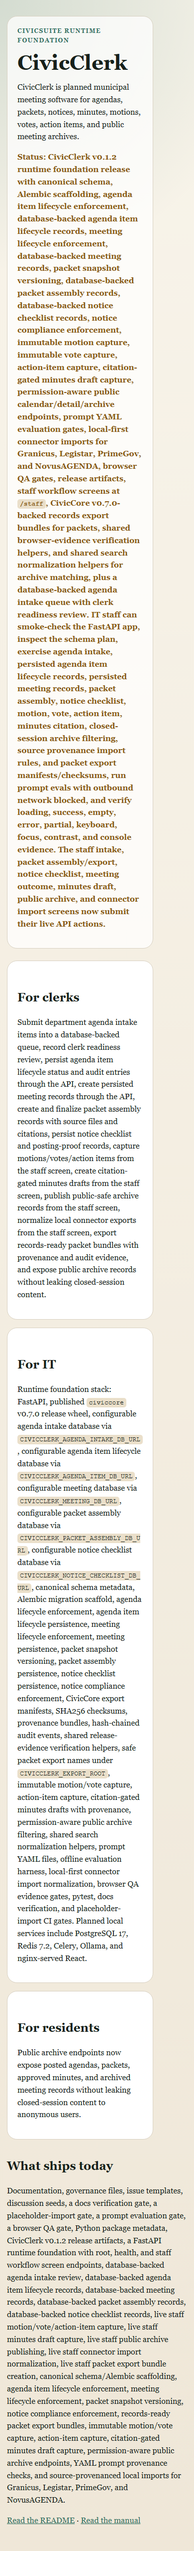
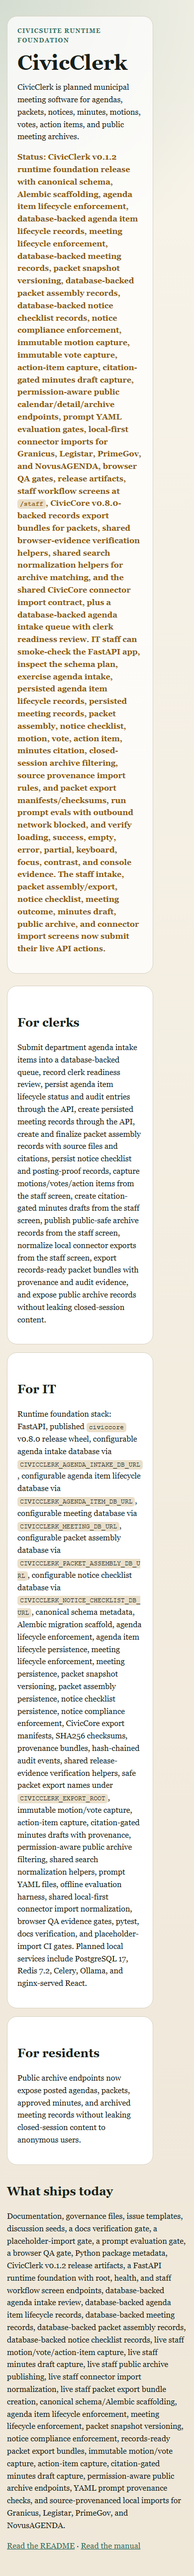
feat: consume civiccore connector import helpers

Changed region(s): [[0.0308, 0.0, 0.9538, 0.9947]]

diff --git a/docs/index.html b/docs/index.html
@@ -51,7 +51,7 @@
       <div class="eyebrow">CivicSuite runtime foundation</div>
       <h1>CivicClerk</h1>
       <p>CivicClerk is planned municipal meeting software for agendas, packets, notices, minutes, motions, votes, action items, and public meeting archives.</p>
-      <p class="status">Status: CivicClerk v0.1.2 runtime foundation release with canonical schema, Alembic scaffolding, agenda item lifecycle enforcement, database-backed agenda item lifecycle records, meeting lifecycle enforcement, database-backed meeting records, packet snapshot versioning, database-backed packet assembly records, database-backed notice checklist records, notice compliance enforcement, immutable motion capture, immutable vote capture, action-item capture, citation-gated minutes draft capture, permission-aware public calendar/detail/archive endpoints, prompt YAML evaluation gates, local-first connector imports for Granicus, Legistar, PrimeGov, and NovusAGENDA, browser QA gates, release artifacts, staff workflow screens at <code>/staff</code>, CivicCore v0.7.0-backed records export bundles for packets, shared browser-evidence verification helpers, and shared search normalization helpers for archive matching, plus a database-backed agenda intake queue with clerk readiness review. IT staff can smoke-check the FastAPI app, inspect the schema plan, exercise agenda intake, persisted agenda item lifecycle records, persisted meeting records, packet assembly, notice checklist, motion, vote, action item, minutes citation, closed-session archive filtering, source provenance import rules, and packet export manifests/checksums, run prompt evals with outbound network blocked, and verify loading, success, empty, error, partial, keyboard, focus, contrast, and console evidence. The staff intake, packet assembly/export, notice checklist, meeting outcome, minutes draft, public archive, and connector import screens now submit their live API actions.</p>
+      <p class="status">Status: CivicClerk v0.1.2 runtime foundation release with canonical schema, Alembic scaffolding, agenda item lifecycle enforcement, database-backed agenda item lifecycle records, meeting lifecycle enforcement, database-backed meeting records, packet snapshot versioning, database-backed packet assembly records, database-backed notice checklist records, notice compliance enforcement, immutable motion capture, immutable vote capture, action-item capture, citation-gated minutes draft capture, permission-aware public calendar/detail/archive endpoints, prompt YAML evaluation gates, local-first connector imports for Granicus, Legistar, PrimeGov, and NovusAGENDA, browser QA gates, release artifacts, staff workflow screens at <code>/staff</code>, CivicCore v0.8.0-backed records export bundles for packets, shared browser-evidence verification helpers, shared search normalization helpers for archive matching, and the shared CivicCore connector import contract, plus a database-backed agenda intake queue with clerk readiness review. IT staff can smoke-check the FastAPI app, inspect the schema plan, exercise agenda intake, persisted agenda item lifecycle records, persisted meeting records, packet assembly, notice checklist, motion, vote, action item, minutes citation, closed-session archive filtering, source provenance import rules, and packet export manifests/checksums, run prompt evals with outbound network blocked, and verify loading, success, empty, error, partial, keyboard, focus, contrast, and console evidence. The staff intake, packet assembly/export, notice checklist, meeting outcome, minutes draft, public archive, and connector import screens now submit their live API actions.</p>
     </section>
 
     <section class="grid" aria-label="Product overview">
@@ -61,7 +61,7 @@
       </article>
       <article class="card">
         <h2>For IT</h2>
-      <p>Runtime foundation stack: FastAPI, published <code>civiccore</code> v0.7.0 release wheel, configurable agenda intake database via <code>CIVICCLERK_AGENDA_INTAKE_DB_URL</code>, configurable agenda item lifecycle database via <code>CIVICCLERK_AGENDA_ITEM_DB_URL</code>, configurable meeting database via <code>CIVICCLERK_MEETING_DB_URL</code>, configurable packet assembly database via <code>CIVICCLERK_PACKET_ASSEMBLY_DB_URL</code>, configurable notice checklist database via <code>CIVICCLERK_NOTICE_CHECKLIST_DB_URL</code>, canonical schema metadata, Alembic migration scaffold, agenda lifecycle enforcement, agenda item lifecycle persistence, meeting lifecycle enforcement, meeting persistence, packet snapshot versioning, packet assembly persistence, notice checklist persistence, notice compliance enforcement, CivicCore export manifests, SHA256 checksums, provenance bundles, hash-chained audit events, shared release-evidence verification helpers, safe packet export names under <code>CIVICCLERK_EXPORT_ROOT</code>, immutable motion/vote capture, action-item capture, citation-gated minutes drafts with provenance, permission-aware public archive filtering, shared search normalization helpers, prompt YAML files, offline evaluation harness, local-first connector import normalization, browser QA evidence gates, pytest, docs verification, and placeholder-import CI gates. Planned local services include PostgreSQL 17, Redis 7.2, Celery, Ollama, and nginx-served React.</p>
+      <p>Runtime foundation stack: FastAPI, published <code>civiccore</code> v0.8.0 release wheel, configurable agenda intake database via <code>CIVICCLERK_AGENDA_INTAKE_DB_URL</code>, configurable agenda item lifecycle database via <code>CIVICCLERK_AGENDA_ITEM_DB_URL</code>, configurable meeting database via <code>CIVICCLERK_MEETING_DB_URL</code>, configurable packet assembly database via <code>CIVICCLERK_PACKET_ASSEMBLY_DB_URL</code>, configurable notice checklist database via <code>CIVICCLERK_NOTICE_CHECKLIST_DB_URL</code>, canonical schema metadata, Alembic migration scaffold, agenda lifecycle enforcement, agenda item lifecycle persistence, meeting lifecycle enforcement, meeting persistence, packet snapshot versioning, packet assembly persistence, notice checklist persistence, notice compliance enforcement, CivicCore export manifests, SHA256 checksums, provenance bundles, hash-chained audit events, shared release-evidence verification helpers, safe packet export names under <code>CIVICCLERK_EXPORT_ROOT</code>, immutable motion/vote capture, action-item capture, citation-gated minutes drafts with provenance, permission-aware public archive filtering, shared search normalization helpers, prompt YAML files, offline evaluation harness, shared local-first connector import normalization, browser QA evidence gates, pytest, docs verification, and placeholder-import CI gates. Planned local services include PostgreSQL 17, Redis 7.2, Celery, Ollama, and nginx-served React.</p>
       </article>
       <article class="card">
         <h2>For residents</h2>

diff --git a/civicclerk/connectors.py b/civicclerk/connectors.py
@@ -1,202 +1,12 @@
-"""Local-first connector import normalization for agenda platforms."""
+"""CivicClerk re-exports shared local-first connector import helpers."""
 
-from __future__ import annotations
-
-from dataclasses import dataclass
-from typing import Any
-
-
-SUPPORTED_CONNECTORS = ("granicus", "legistar", "novusagenda", "primegov")
-
-
-@dataclass(frozen=True)
-class ConnectorImportError(ValueError):
-    message: str
-    fix: str
-
-    def public_dict(self) -> dict[str, str]:
-        return {
-            "message": self.message,
-            "fix": self.fix,
-        }
-
-
-@dataclass(frozen=True)
-class ImportedAgendaItem:
-    external_item_id: str
-    title: str
-    department: str | None
-    connector: str
-
-    def public_dict(self) -> dict[str, str | None | dict[str, str]]:
-        return {
-            "external_item_id": self.external_item_id,
-            "title": self.title,
-            "department": self.department,
-            "source_provenance": {
-                "connector": self.connector,
-                "imported_from": "local_payload",
-                "external_item_id": self.external_item_id,
-            },
-        }
-
-
-@dataclass(frozen=True)
-class ImportedMeeting:
-    connector: str
-    external_meeting_id: str
-    title: str
-    scheduled_start: str
-    agenda_items: tuple[ImportedAgendaItem, ...]
-
-    def public_dict(self) -> dict[str, str | list[dict] | dict[str, str]]:
-        return {
-            "connector": self.connector,
-            "external_meeting_id": self.external_meeting_id,
-            "title": self.title,
-            "scheduled_start": self.scheduled_start,
-            "source_provenance": {
-                "connector": self.connector,
-                "imported_from": "local_payload",
-                "external_meeting_id": self.external_meeting_id,
-            },
-            "agenda_items": [item.public_dict() for item in self.agenda_items],
-        }
-
-
-def import_meeting_payload(
-    *,
-    connector_name: str,
-    payload: dict[str, Any],
-) -> ImportedMeeting:
-    """Normalize one local export payload from a supported agenda platform."""
-    connector = connector_name.strip().lower()
-    if connector not in SUPPORTED_CONNECTORS:
-        raise ConnectorImportError(
-            message=f"Unsupported connector '{connector_name}'.",
-            fix="Use one of: granicus, legistar, novusagenda, primegov.",
-        )
-    return _CONNECTOR_IMPORTERS[connector](payload)
-
-
-def _require(
-    payload: dict[str, Any],
-    *,
-    connector_label: str,
-    field: str,
-) -> Any:
-    value = payload.get(field)
-    if value in (None, ""):
-        raise ConnectorImportError(
-            message=f"{connector_label} meeting payload is missing required field {field}.",
-            fix=f"Export the meeting again with {field} included, then retry the local import.",
-        )
-    return value
-
-
-def _items_from(
-    raw_items: Any,
-    *,
-    connector: str,
-    id_field: str,
-    title_field: str,
-    department_field: str,
-) -> tuple[ImportedAgendaItem, ...]:
-    if not isinstance(raw_items, list):
-        raw_items = []
-    items: list[ImportedAgendaItem] = []
-    for index, raw_item in enumerate(raw_items, start=1):
-        if not isinstance(raw_item, dict):
-            continue
-        external_item_id = str(raw_item.get(id_field) or f"{connector}-item-{index}")
-        title = str(raw_item.get(title_field) or "Untitled agenda item")
-        department = raw_item.get(department_field)
-        items.append(
-            ImportedAgendaItem(
-                external_item_id=external_item_id,
-                title=title,
-                department=str(department) if department not in (None, "") else None,
-                connector=connector,
-            )
-        )
-    return tuple(items)
-
-
-def _import_granicus(payload: dict[str, Any]) -> ImportedMeeting:
-    connector = "granicus"
-    return ImportedMeeting(
-        connector=connector,
-        external_meeting_id=str(_require(payload, connector_label="Granicus", field="id")),
-        title=str(_require(payload, connector_label="Granicus", field="name")),
-        scheduled_start=str(_require(payload, connector_label="Granicus", field="start")),
-        agenda_items=_items_from(
-            payload.get("agenda"),
-            connector=connector,
-            id_field="id",
-            title_field="title",
-            department_field="department",
-        ),
-    )
-
-
-def _import_legistar(payload: dict[str, Any]) -> ImportedMeeting:
-    connector = "legistar"
-    return ImportedMeeting(
-        connector=connector,
-        external_meeting_id=str(_require(payload, connector_label="Legistar", field="MeetingId")),
-        title=str(_require(payload, connector_label="Legistar", field="MeetingName")),
-        scheduled_start=str(_require(payload, connector_label="Legistar", field="MeetingDate")),
-        agenda_items=_items_from(
-            payload.get("AgendaItems"),
-            connector=connector,
-            id_field="FileNumber",
-            title_field="Title",
-            department_field="DepartmentName",
-        ),
-    )
-
-
-def _import_primegov(payload: dict[str, Any]) -> ImportedMeeting:
-    connector = "primegov"
-    return ImportedMeeting(
-        connector=connector,
-        external_meeting_id=str(_require(payload, connector_label="PrimeGov", field="meeting_id")),
-        title=str(_require(payload, connector_label="PrimeGov", field="title")),
-        scheduled_start=str(_require(payload, connector_label="PrimeGov", field="scheduled_start")),
-        agenda_items=_items_from(
-            payload.get("items"),
-            connector=connector,
-            id_field="item_id",
-            title_field="subject",
-            department_field="owner",
-        ),
-    )
-
-
-def _import_novusagenda(payload: dict[str, Any]) -> ImportedMeeting:
-    connector = "novusagenda"
-    return ImportedMeeting(
-        connector=connector,
-        external_meeting_id=str(_require(payload, connector_label="NovusAGENDA", field="MeetingGuid")),
-        title=str(_require(payload, connector_label="NovusAGENDA", field="MeetingTitle")),
-        scheduled_start=str(_require(payload, connector_label="NovusAGENDA", field="MeetingDateTime")),
-        agenda_items=_items_from(
-            payload.get("Agenda"),
-            connector=connector,
-            id_field="Guid",
-            title_field="Caption",
-            department_field="Dept",
-        ),
-    )
-
-
-_CONNECTOR_IMPORTERS = {
-    "granicus": _import_granicus,
-    "legistar": _import_legistar,
-    "novusagenda": _import_novusagenda,
-    "primegov": _import_primegov,
-}
-
+from civiccore.connectors import (
+    ConnectorImportError,
+    ImportedAgendaItem,
+    ImportedMeeting,
+    SUPPORTED_CONNECTORS,
+    import_meeting_payload,
+)
 
 __all__ = [
     "ConnectorImportError",

diff --git a/tests/test_milestone_1_runtime_foundation.py b/tests/test_milestone_1_runtime_foundation.py
@@ -38,16 +38,16 @@ def test_pyproject_declares_runtime_package_and_version() -> None:
     assert "CivicClerk" in data["project"]["description"]
 
 
-def test_pyproject_targets_published_civiccore_v070_release_wheel() -> None:
+def test_pyproject_targets_published_civiccore_v080_release_wheel() -> None:
     data = load_pyproject()
     dependencies = data["project"]["dependencies"]
 
     assert (
-        "civiccore @ https://github.com/CivicSuite/civiccore/releases/download/v0.7.0/"
-        "civiccore-0.7.0-py3-none-any.whl"
+        "civiccore @ https://github.com/CivicSuite/civiccore/releases/download/v0.8.0/"
+        "civiccore-0.8.0-py3-none-any.whl"
     ) in dependencies
     assert not any(
-        "civiccore>=" in dep or "civiccore~=" in dep or dep == "civiccore==0.7.0"
+        "civiccore>=" in dep or "civiccore~=" in dep or dep == "civiccore==0.8.0"
         for dep in dependencies
     )
 
@@ -132,7 +132,7 @@ async def test_health_endpoint_is_actionable_for_it_staff() -> None:
         "status": "ok",
         "service": "civicclerk",
         "version": "0.1.2",
-        "civiccore": "0.7.0",
+        "civiccore": "0.8.0",
     }
 
 

diff --git a/civicclerk/main.py b/civicclerk/main.py
@@ -217,7 +217,7 @@ async def root() -> dict[str, str]:
             "minutes draft capture plus permission-aware public calendar and archive endpoints; "
             "prompt YAML and offline evaluation gates protect policy-bearing prompt changes; "
             "local-first Granicus, Legistar, PrimeGov, and NovusAGENDA imports now normalize "
-            "source provenance; CivicCore v0.7.0 packet export bundles now include manifests, "
+            f"source provenance; CivicCore v{CIVICCORE_VERSION} packet export bundles now include manifests, "
             "checksums, provenance, and hash-chained audit evidence; accessibility and browser QA "
             "gates now verify loading, success, empty, error, partial, keyboard, focus, contrast, "
             "and console evidence; the first database-backed agenda intake queue now supports "

diff --git a/scripts/check-civiccore-placeholder-imports.py b/scripts/check-civiccore-placeholder-imports.py
@@ -1,5 +1,5 @@
 #!/usr/bin/env python3
-"""Fail if CivicClerk source imports CivicCore v0.7.0 placeholder packages."""
+"""Fail if CivicClerk source imports CivicCore v0.8.0 placeholder packages."""
 
 from __future__ import annotations
 
@@ -59,7 +59,7 @@ def main() -> int:
         for name in PLACEHOLDERS:
             if any(pattern.search(text) for pattern in patterns_for(name)):
                 failures.append(
-                    f"{path}: civiccore.{name} is a placeholder package in v0.7.0. "
+                    f"{path}: civiccore.{name} is a placeholder package in v0.8.0. "
                     "See AGENTS.md section 3.1."
                 )
 

diff --git a/tests/test_milestone_12_release.py b/tests/test_milestone_12_release.py
@@ -100,6 +100,6 @@ def test_release_workflow_and_docs_reference_v012_release() -> None:
     assert "contents: write" in workflow
     assert "gh release create" in workflow
     assert "dist/*" in workflow
-    assert "civiccore/releases/download/v0.7.0/civiccore-0.7.0-py3-none-any.whl" in workflow
+    assert "civiccore/releases/download/v0.8.0/civiccore-0.8.0-py3-none-any.whl" in workflow
     assert "civicclerk v0.1.2" in docs
-    assert "published `civiccore` v0.7.0 release wheel" in docs
+    assert "published `civiccore` v0.8.0 release wheel" in docs

diff --git a/civicclerk/packet_notice.py b/civicclerk/packet_notice.py
@@ -121,7 +121,7 @@ class PacketStore:
     """Packet version and export-bundle store.
 
     The store is still process-local in this slice, but export bundles are
-    written to disk with CivicCore v0.7.0 manifests, checksums, provenance, and
+    written to disk with CivicCore v0.8.0 manifests, checksums, provenance, and
     hash-chained audit events so they can be validated without the server.
     """
 

diff --git a/README.md b/README.md
@@ -5,7 +5,7 @@
 Status: CivicClerk v0.1.2 runtime foundation release  
 Current version: `0.1.2`  
 Repository: <https://github.com/CivicSuite/civicclerk>  
-Depends on: published `civiccore` v0.7.0 release wheel
+Depends on: published `civiccore` v0.8.0 release wheel
 
 ## What CivicClerk will do
 
@@ -24,7 +24,7 @@ AI may draft or extract. Humans approve every consequential action.
 
 ## What exists today
 
-CivicClerk v0.1.2 ships the runtime and schema foundation plus database-backed agenda item lifecycle records, meeting lifecycle, packet snapshot, notice compliance, immutable motion capture, immutable vote capture, action-item capture, citation-gated minutes draft capture, permission-aware public calendar/detail/archive endpoints, a prompt YAML library with an offline evaluation harness, local-first connector imports for Granicus, Legistar, PrimeGov, and NovusAGENDA, accessibility/browser QA gates, CivicCore v0.7.0-backed records export bundles, database-backed agenda intake readiness, database-backed packet assembly records, database-backed notice checklist/posting-proof records, database-backed meeting records, and first staff workflow screens for intake, packet assembly/export, notice checklist, meeting outcome, minutes draft, public archive, and connector import work. The staff screens now submit agenda intake, record readiness review, create/finalize packet assembly records, create records-ready packet export bundles, persist notice checklist records, attach posting proof, capture motions/votes/action items, create citation-gated minutes drafts, publish public-safe archive records, and normalize local connector exports through the live API.
+CivicClerk v0.1.2 ships the runtime and schema foundation plus database-backed agenda item lifecycle records, meeting lifecycle, packet snapshot, notice compliance, immutable motion capture, immutable vote capture, action-item capture, citation-gated minutes draft capture, permission-aware public calendar/detail/archive endpoints, a prompt YAML library with an offline evaluation harness, local-first connector imports for Granicus, Legistar, PrimeGov, and NovusAGENDA, accessibility/browser QA gates, CivicCore v0.8.0-backed records export bundles, database-backed agenda intake readiness, database-backed packet assembly records, database-backed notice checklist/posting-proof records, database-backed meeting records, and first staff workflow screens for intake, packet assembly/export, notice checklist, meeting outcome, minutes draft, public archive, and connector import work. The staff screens now submit agenda intake, record readiness review, create/finalize packet assembly records, create records-ready packet export bundles, persist notice checklist records, attach posting proof, capture motions/votes/action items, create citation-gated minutes drafts, publish public-safe archive records, and normalize local connector exports through the shared CivicCore connector import contract.
 
 Shipped in this foundation:
 
@@ -34,7 +34,7 @@ Shipped in this foundation:
 - contributing, support, security, code of conduct, issue templates, and PR template
 - discussion seed posts
 - docs verification script and CI workflow
-- Python package metadata with the published `civiccore` v0.7.0 release wheel
+- Python package metadata with the published `civiccore` v0.8.0 release wheel
 - FastAPI application import path at `civicclerk.main:app`
 - root endpoint that explains the current product state
 - `/health` endpoint for IT staff
@@ -91,7 +91,7 @@ Shipped in this foundation:
 - prompt-version provenance enforcement for minutes drafts
 - local-first Granicus, Legistar, PrimeGov, and NovusAGENDA meeting imports
 - source provenance on imported meetings and agenda items
-- records-ready packet export bundles with CivicCore v0.7.0 manifests, SHA256 checksums, provenance, and hash-chained audit events
+- records-ready packet export bundles with CivicCore v0.8.0 manifests, SHA256 checksums, provenance, and hash-chained audit events
 - closed-session/restricted source guardrails for public packet export bundles
 - safe API export-path handling through `bundle_name` under `CIVICCLERK_EXPORT_ROOT`
 - browser QA gate covering loading, success, empty, error, and partial states
@@ -130,7 +130,7 @@ CivicClerk follows the CivicSuite pattern:
 - Ollama / Gemma 4 through `civiccore.llm`, selected by `CIVICCORE_LLM_PROVIDER=ollama`
 - local data ownership, no runtime telemetry, no cloud inference
 
-The foundation is intentionally thin. Canonical schema, Alembic scaffolding, agenda item lifecycle enforcement, agenda item lifecycle persistence, meeting lifecycle enforcement, meeting records, packet snapshot versioning, packet assembly records, notice checklist records, notice compliance enforcement, immutable motion capture, immutable vote capture, action-item capture, citation-gated minutes draft capture, permission-aware public archive endpoints, prompt YAML/evaluation gates, local-first connector import normalization, browser QA gates, CivicClerk v0.1.2 release artifacts, and CivicCore v0.7.0 packet export plus browser-evidence verification primitives are present. Minutes drafts require sentence-level citations, YAML prompt-version provenance, and human approval before acceptance, and they are never auto-adopted or auto-posted. Anonymous public archive endpoints do not reveal closed-session content in response bodies, counts, suggestions, or error messages. Connector imports record source provenance and do not require outbound network calls in the default local profile. Public packet exports block closed-session/restricted sources and include manifest, checksum, provenance, and audit evidence. Agenda item records now persist lifecycle status and audit entries when `CIVICCLERK_AGENDA_ITEM_DB_URL` is configured. Meeting records now persist scheduled starts, normalized meeting type, lifecycle status, and audit entries when `CIVICCLERK_MEETING_DB_URL` is configured. Packet assembly records now persist source references, citations, linked packet snapshot ids, and durable audit hashes. Notice checklist records persist compliance outcomes, warnings, posting proof, and durable audit hashes. Browser QA now checks loading, success, empty, error, and partial states plus keyboard, focus, contrast, and console evidence, and release screenshots are bound to the current docs page through shared CivicCore verification helpers. CivicClerk v0.1.2 now pairs with the published `civiccore` v0.7.0 release wheel.
+The foundation is intentionally thin. Canonical schema, Alembic scaffolding, agenda item lifecycle enforcement, agenda item lifecycle persistence, meeting lifecycle enforcement, meeting records, packet snapshot versioning, packet assembly records, notice checklist records, notice compliance enforcement, immutable motion capture, immutable vote capture, action-item capture, citation-gated minutes draft capture, permission-aware public archive endpoints, prompt YAML/evaluation gates, local-first connector import normalization, browser QA gates, CivicClerk v0.1.2 release artifacts, and CivicCore v0.8.0 packet export plus browser-evidence verification primitives are present. Minutes drafts require sentence-level citations, YAML prompt-version provenance, and human approval before acceptance, and they are never auto-adopted or auto-posted. Anonymous public archive endpoints do not reveal closed-session content in response bodies, counts, suggestions, or error messages. Connector imports record source provenance and do not require outbound network calls in the default local profile. Public packet exports block closed-session/restricted sources and include manifest, checksum, provenance, and audit evidence. Agenda item records now persist lifecycle status and audit entries when `CIVICCLERK_AGENDA_ITEM_DB_URL` is configured. Meeting records now persist scheduled starts, normalized meeting type, lifecycle status, and audit entries when `CIVICCLERK_MEETING_DB_URL` is configured. Packet assembly records now persist source references, citations, linked packet snapshot ids, and durable audit hashes. Notice checklist records persist compliance outcomes, warnings, posting proof, and durable audit hashes. Browser QA now checks loading, success, empty, error, and partial states plus keyboard, focus, contrast, and console evidence, and release screenshots are bound to the current docs page through shared CivicCore verification helpers. CivicClerk v0.1.2 now pairs with the published `civiccore` v0.8.0 release wheel.
 
 The staff experience at `/staff` now includes first workflow screens for agenda intake, packet assembly/export, notice checklist/posting-proof, meeting outcome, minutes draft, public archive, and connector import work. It is intentionally honest: these seven screens can submit their corresponding live API actions, while the broader multi-role React clerk console remains future work.
 

diff --git a/USER-MANUAL.md b/USER-MANUAL.md
@@ -47,7 +47,7 @@ draft capture, and permission-aware public calendar/detail/archive
 endpoints, a prompt YAML library and offline evaluation harness,
 local-first connector imports for Granicus, Legistar, PrimeGov, and
 NovusAGENDA, accessibility/browser QA gates, CivicClerk v0.1.2 release
-artifacts, CivicCore v0.7.0-backed packet export bundles, a database-backed
+artifacts, CivicCore v0.8.0-backed packet export bundles, a database-backed
 agenda intake queue with clerk readiness review, database-backed meeting
 records with lifecycle audit entries, database-backed packet assembly records
 with source/citation metadata, database-backed agenda item lifecycle records
@@ -151,7 +151,7 @@ Milestone 11 adds browser QA evidence and a CI gate for loading, success,
 empty, error, and partial states plus keyboard navigation, focus states,
 contrast, and console checks. Milestone 12 synchronizes version surfaces,
 builds release artifacts and checksums, and publishes CivicClerk v0.1.2.
-The current production-depth branch pairs CivicClerk with the published `civiccore` v0.7.0 release wheel
+The current production-depth branch pairs CivicClerk with the published `civiccore` v0.8.0 release wheel
 so packet exports, packet assembly records, notice checklist records, and the
 browser QA release-evidence gate can use shared CivicCore manifests,
 provenance, checksums, audit primitives, and verification helpers.
@@ -181,7 +181,7 @@ filtering for anonymous and under-privileged users. Milestone 9 moves
 policy-bearing prompt text into YAML and adds an evaluation harness.
 Milestone 10 adds source-provenanced connector import normalization for
 Granicus, Legistar, PrimeGov, and NovusAGENDA. Production-depth slices add
-records-ready packet export bundles using CivicCore v0.7.0 provenance, export
+records-ready packet export bundles using CivicCore v0.8.0 provenance, export
 manifest, checksum, and audit primitives; database-backed agenda intake and
 clerk readiness review state; database-backed agenda item lifecycle records with
 durable transition audit entries; database-backed meeting records with lifecycle

diff --git a/CHANGELOG.md b/CHANGELOG.md
@@ -16,9 +16,10 @@ All notable changes to CivicClerk are documented here.
   whitespace-stable and case-insensitive without a local duplicate helper.
 
 ### Changed
-- CivicClerk now installs the published `civiccore` v0.7.0 release wheel so
-  the release gate can consume the shipped shared verification and search
-  helpers in addition to the existing audit, provenance, and export primitives.
+- CivicClerk now installs the published `civiccore` v0.8.0 release wheel so
+  the release gate can consume the shipped shared verification, search, and
+  connector import helpers in addition to the existing audit, provenance, and
+  export primitives.
 
 ## [0.1.2] - 2026-04-29
 
